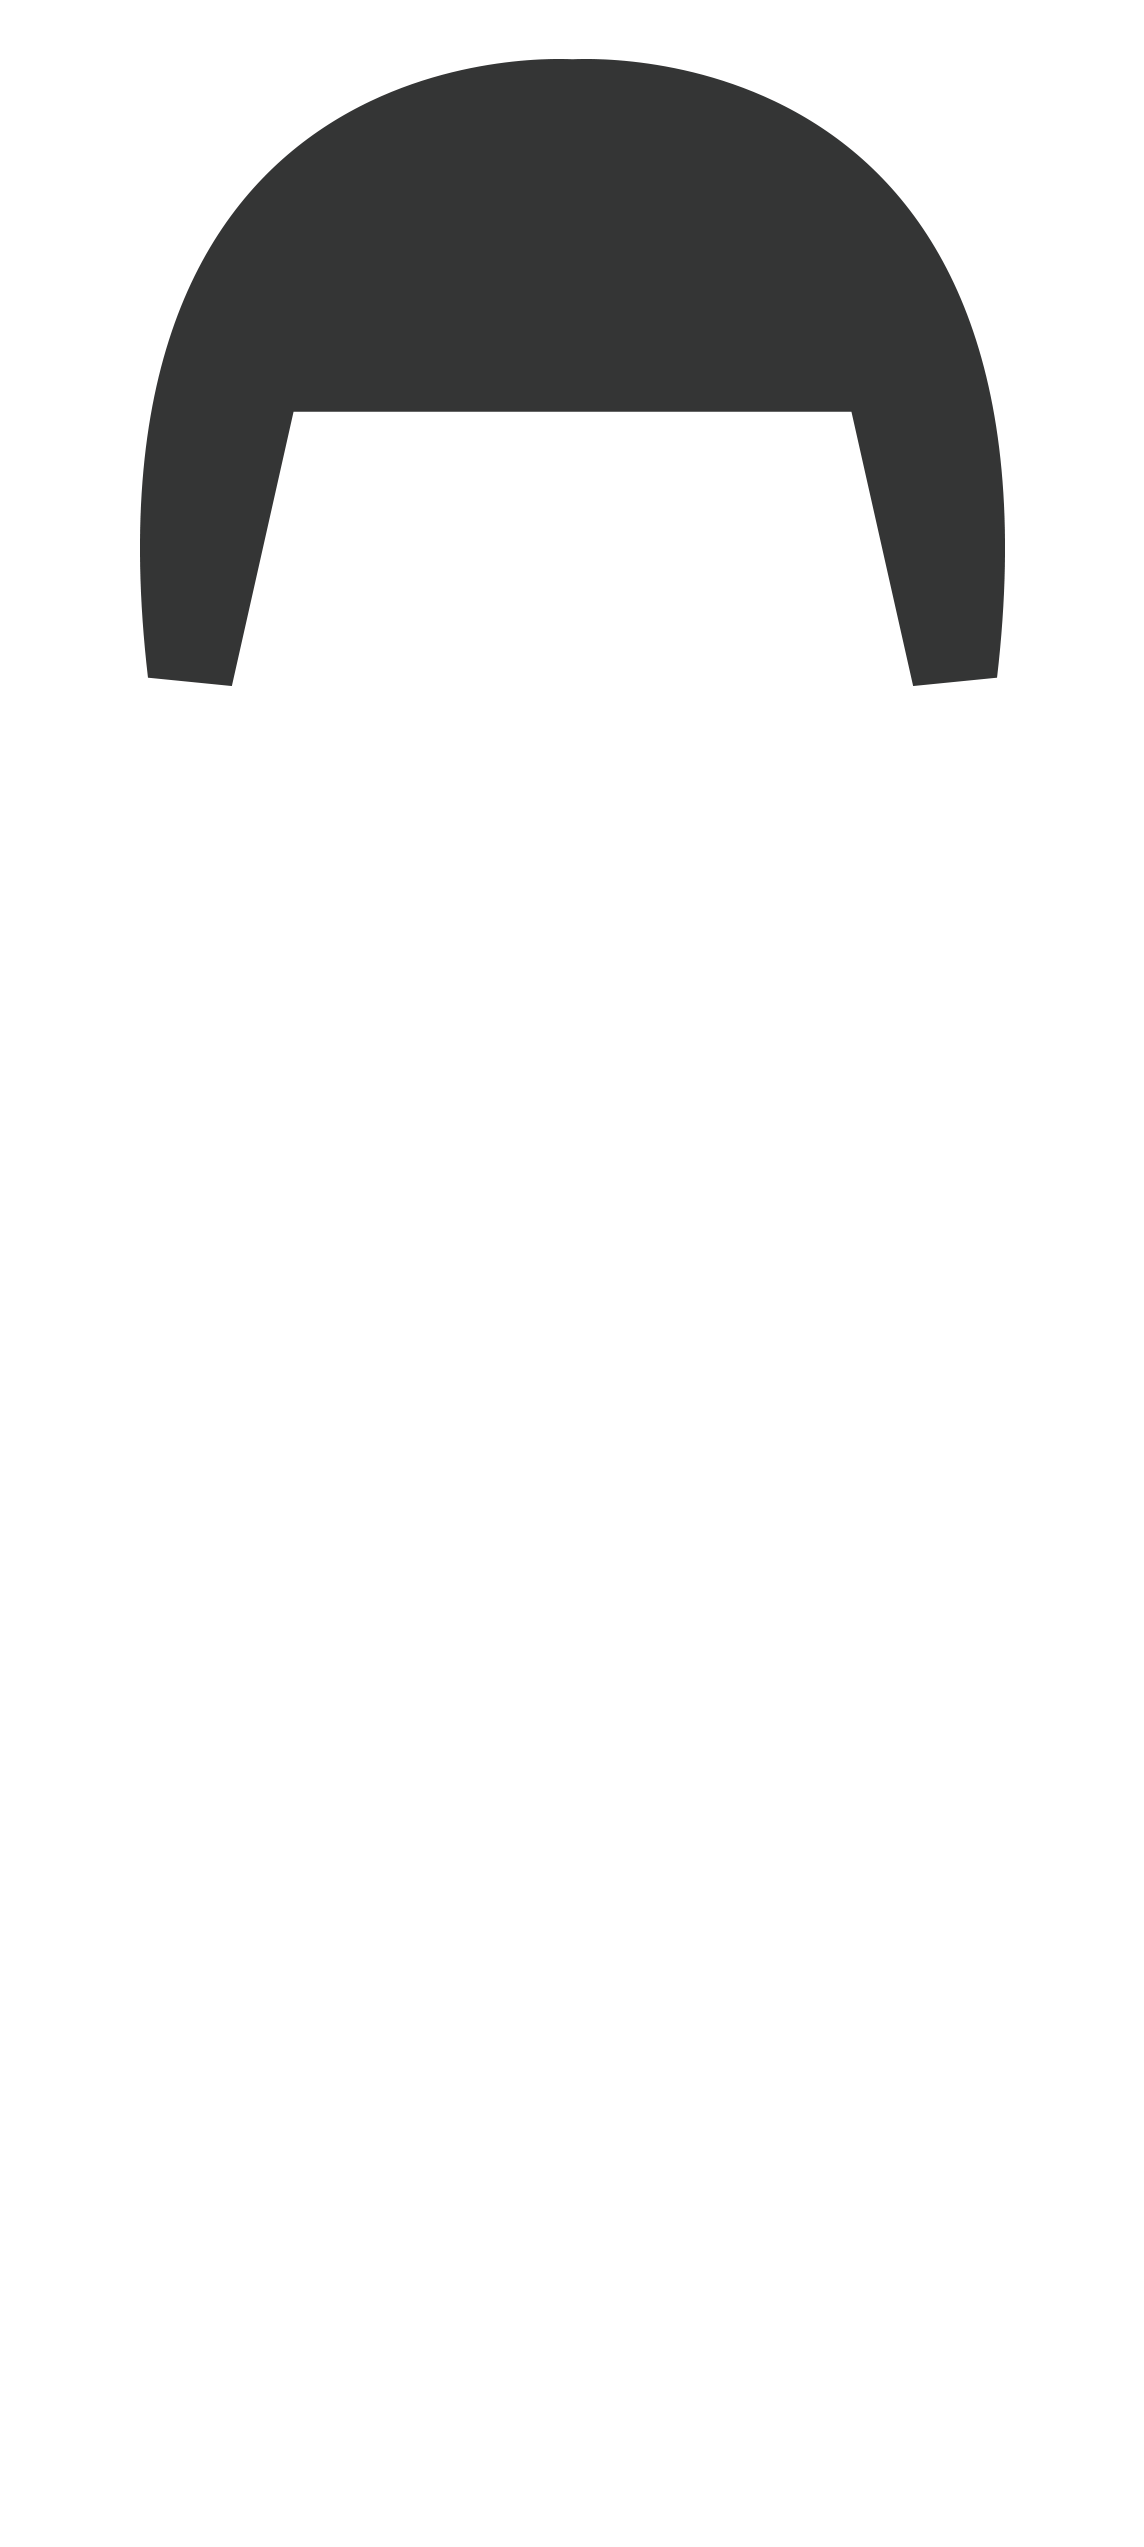
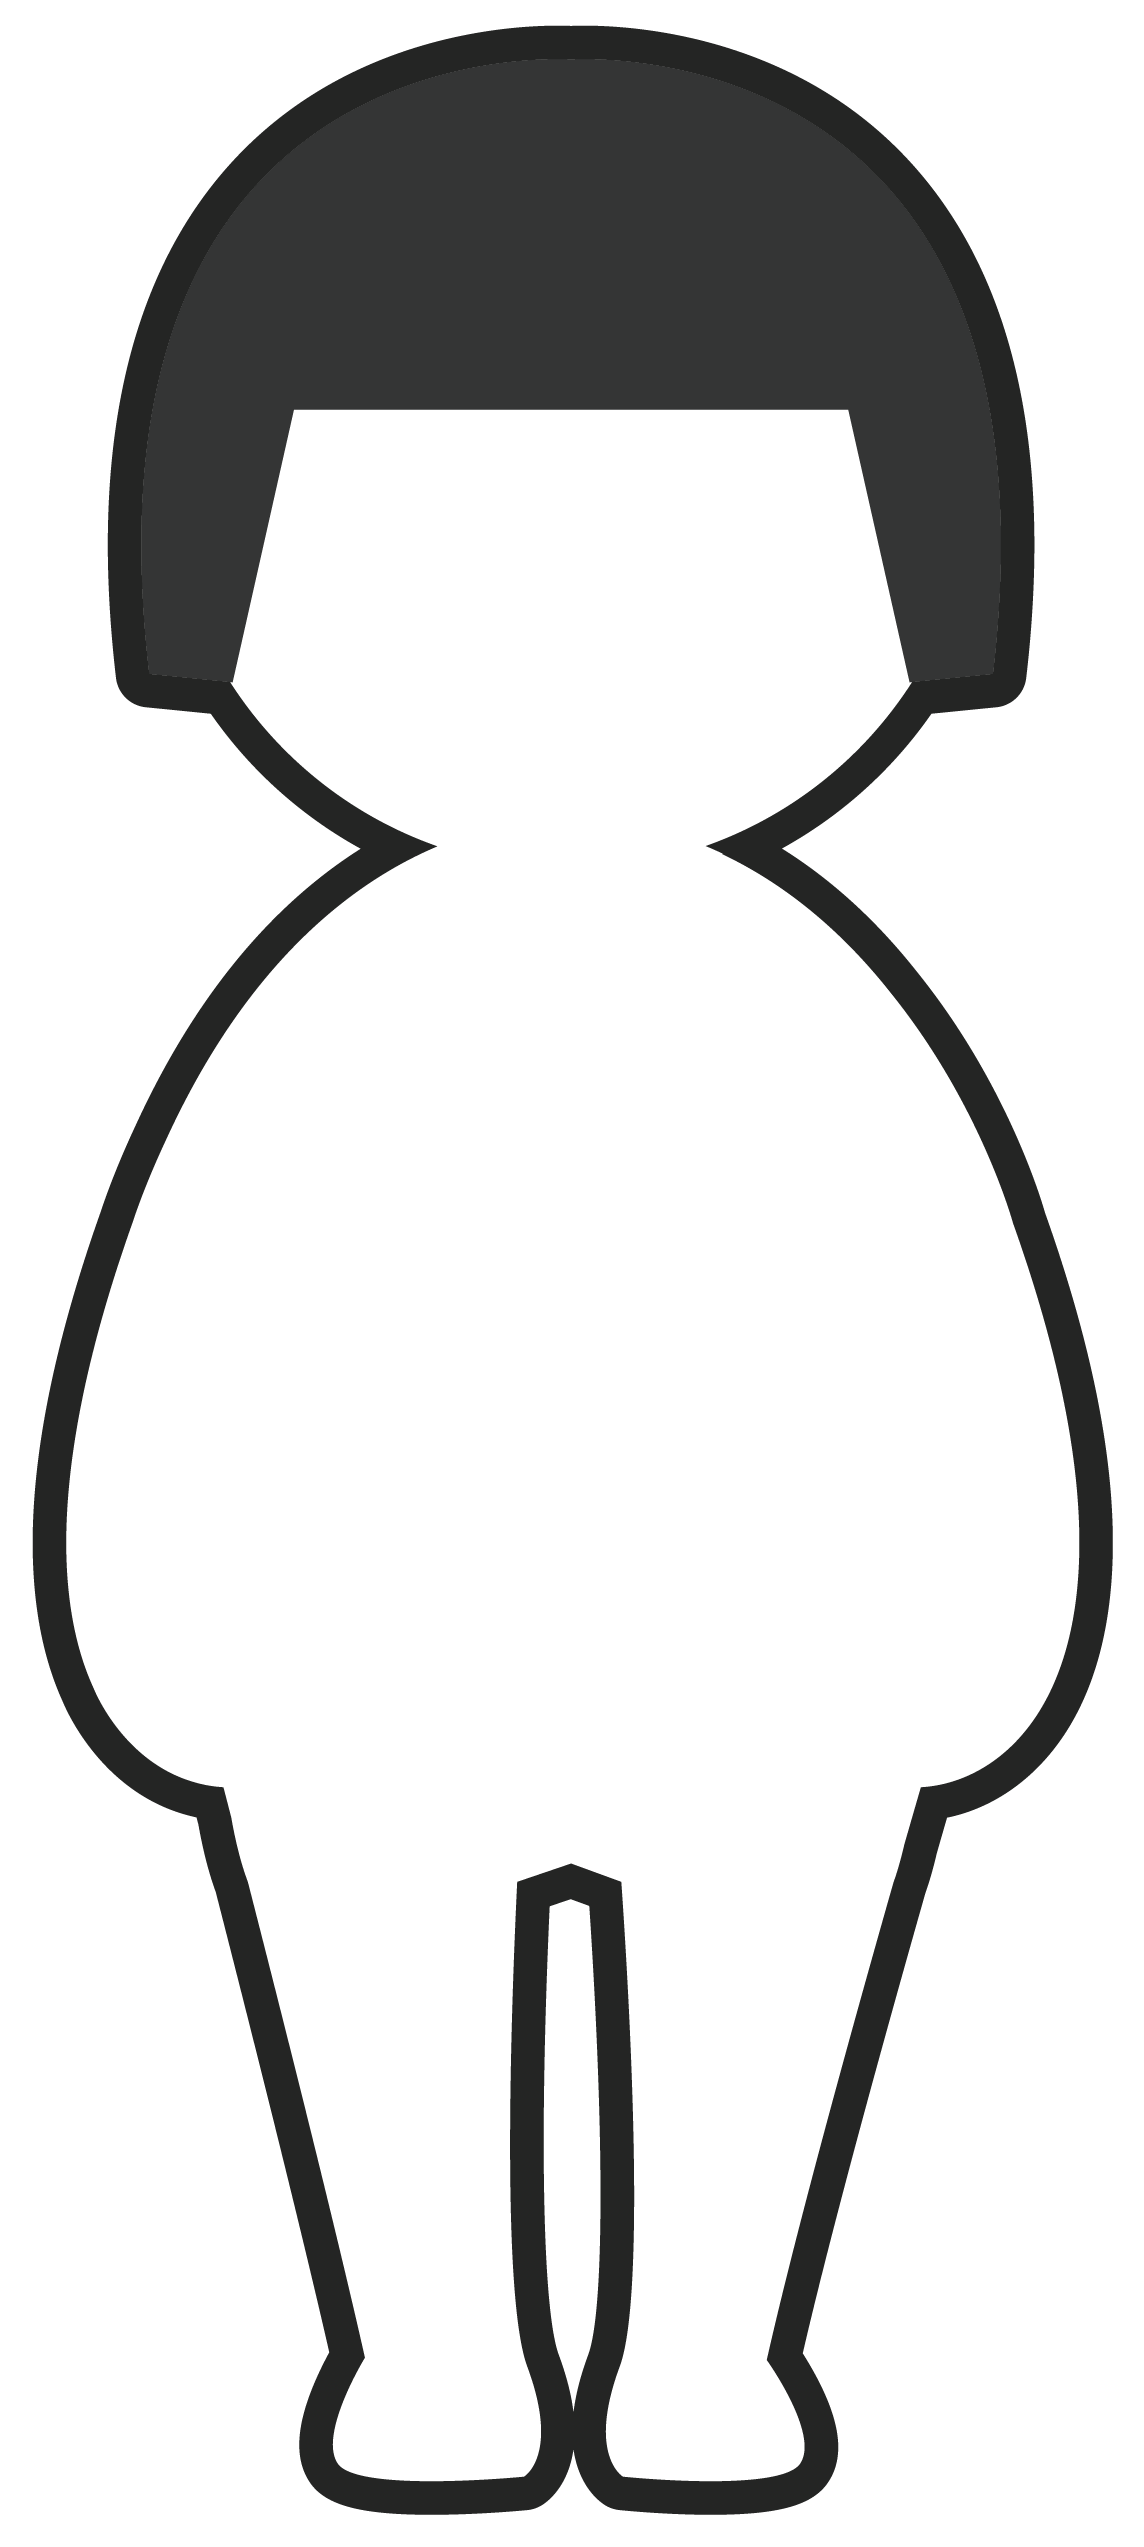
女生微调

Changed region(s): [[0.0306, 0.0, 0.979, 0.9925]]

diff --git a/src/app/select-input/select-input.component.ts b/src/app/select-input/select-input.component.ts
@@ -59,16 +59,16 @@ export class SelectInputComponent implements OnInit {
       jewArr:[
         {src:'../../assets/jew/jew (1).png',id:'1'},
         {src:'../../assets/jew/jew (2).png',id:'2'},
-        {src:'../../assets/jew/jew (3).png',id:'3'},
-        {src:'../../assets/jew/jew (4).png',id:'4'},
+        // {src:'../../assets/jew/jew (3).png',id:'3'},
+        // {src:'../../assets/jew/jew (4).png',id:'4'},
         {src:'../../assets/jew/jew (5).png',id:'5'},
         {src:'../../assets/jew/jew (6).png',id:'6'},
         {src:'../../assets/jew/jew (7).png',id:'7'},
         {src:'../../assets/jew/jew (8).png',id:'8'},
         {src:'../../assets/jew/jew (9).png',id:'9'},
-        {src:'../../assets/jew/jew (10).png',id:'11'},
-        {src:'../../assets/jew/jew (11).png',id:'12'},
-        {src:'../../assets/jew/jew (12).png',id:'10'},
+        {src:'../../assets/jew/jew (10).png',id:'10'},
+        {src:'../../assets/jew/jew (11).png',id:'11'},
+        {src:'../../assets/jew/jew (12).png',id:'12'},
       ],
       coatArr:[
         {src:'../../assets/coat/coat (1).png',id:'1'},
@@ -164,16 +164,16 @@ export class SelectInputComponent implements OnInit {
       jewArr:[
         {src:'../../assets/jew/jew (1).png',id:'1'},
         {src:'../../assets/jew/jew (2).png',id:'2'},
-        {src:'../../assets/jew/jew (3).png',id:'3'},
-        {src:'../../assets/jew/jew (4).png',id:'4'},
+        // {src:'../../assets/jew/jew (3).png',id:'3'},
+        // {src:'../../assets/jew/jew (4).png',id:'4'},
         {src:'../../assets/jew/jew (5).png',id:'5'},
         {src:'../../assets/jew/jew (6).png',id:'6'},
         {src:'../../assets/jew/jew (7).png',id:'7'},
         {src:'../../assets/jew/jew (8).png',id:'8'},
         {src:'../../assets/jew/jew (9).png',id:'9'},
-        {src:'../../assets/jew/jew (10).png',id:'11'},
-        {src:'../../assets/jew/jew (11).png',id:'12'},
-        {src:'../../assets/jew/jew (12).png',id:'10'},
+        {src:'../../assets/jew/jew (10).png',id:'10'},
+        {src:'../../assets/jew/jew (11).png',id:'11'},
+        {src:'../../assets/jew/jew (12).png',id:'12'},
       ],
       coatArr:[
         {src:'../../assets/coat/mcoat (1).png',id:'1'},
@@ -249,20 +249,20 @@ export class SelectInputComponent implements OnInit {
     if(src.includes('hair')){
       this.obj.click = 'hair';
       this.obj.hair.has = true;//obj的第一位是种类的意思
-      this.obj.hair.index = i+1; //obj第二位是第几件衣服的意思
+      this.obj.hair.index = i; //obj第二位是第几件衣服的意思
       this.eventChild1.emit(this.obj);
     }
      if(src.includes('coat')){
       this.obj.click = 'coat';
       this.obj.coat.has = true;
-      this.obj.coat.index = i+1;
+      this.obj.coat.index = i;
       this.eventChild1.emit(this.obj);
     }
      if(src.includes('suits')){
 
       this.obj.click = 'suits';
       this.obj.suits.has = true;
-      this.obj.suits.index = i+1;
+      this.obj.suits.index = i;
       if(src.includes('4')){
         this.obj.suits.hasShoes = true;
         this.obj.suits.hasJew = true;
@@ -280,19 +280,19 @@ export class SelectInputComponent implements OnInit {
      if(src.includes('pants')){
       this.obj.click = 'pants';
       this.obj.pants.has = true;
-      this.obj.pants.index = i+1;
+      this.obj.pants.index = i;
       this.eventChild1.emit(this.obj);
     }
      if(src.includes('shoes')){
       this.obj.click = 'shoes';
       this.obj.shoes.has = true;
-      this.obj.shoes.index = i+1;
+      this.obj.shoes.index = i;
       this.eventChild1.emit(this.obj);
     }
     if(src.includes('jew')){
       this.obj.click = 'jew';
       this.obj.jew.has = true;
-      this.obj.jew.index = i+1;
+      this.obj.jew.index = i;
       this.eventChild1.emit(this.obj);
     }
     

diff --git a/src/app/person/person.component.less b/src/app/person/person.component.less
@@ -10,7 +10,7 @@
         background-repeat: no-repeat;
         .hair{
             position: absolute;
-            width: 100%;
+            width: 105%;
             height: 100%;
             background-color: transparent;
             // background-image: url(../../assets/hair/fhair0.png);
@@ -18,6 +18,7 @@
             background-repeat: no-repeat;
             z-index: 11;
             top:-0.5%;
+            left: -3%;
         }
         
         .pants{
@@ -33,21 +34,22 @@
         }
         .coats{
             position: absolute;
-            width: 100%;
+            width: 105%;
             height: 100%;
             background-color: transparent;
             // background-image: url(../../assets/coat/mcoats01.png);
             background-size: 100%;
             background-repeat: no-repeat;
             z-index: 15;
-            top: 0;
+            top: -1.2%;
+            left: -2.9%;
         }
         .jew{
             position: absolute;
-            width: 100%;
+            width: 120%;
             height: 100%;
-            top: -4.8%;
-            left: 0%;
+            top: -10%;
+            left: -10%;
             background-color: transparent;
             // background-image: url(../../assets/jew/mjew1.png);
             background-size: 100%;
@@ -56,10 +58,10 @@
         }
         .shoes{
             position: absolute;
-            width: 100%;
+            width: 105%;
             height: 100%;
-            top: 4%;
-            left: -1%;
+            top: 2%;
+            left: -2.8%;
             background-color: transparent;
             background-size: 100%;
             background-repeat: no-repeat;
@@ -67,9 +69,10 @@
         }
         .suits{
             position: absolute;
-            width: 100%;
+            width: 105%;
             height: 100%;
-            top: 0;
+            top: -0.9%;
+            left: -1.9%;
             background-color: transparent;
             // background-image: url(../../assets/coat/mcoats01.png);
             background-size: 100%;

diff --git a/src/app/background-select/background-select.component.less b/src/app/background-select/background-select.component.less
@@ -18,6 +18,7 @@
         text-align: center;
         padding-top: 0.3rem;
         .white{
+            
             input{
                 margin: 0.5rem auto auto 1.0rem;
                 height: 0.65rem;
@@ -40,6 +41,15 @@
                 background-color: transparent;
                 color: #333;
             }
+            .nameshow{
+                margin: 0.5rem auto auto 1.0rem;
+                height: 0.65rem;
+                width: 2rem;
+                font-size: 0.45rem;
+                font-weight: bold;
+                border: none;
+                outline:none
+            }
             width: 4.5rem;
             height: 7.2rem;
             background-color: #fff;
@@ -51,6 +61,7 @@
             background-repeat: no-repeat;
             background-position: 10% 10%;
             z-index: 5;
+            
             .person{
                 padding-top: 0.4rem;
                 width:1.8rem;

diff --git a/src/app/background-select/background-select.component.html b/src/app/background-select/background-select.component.html
@@ -5,11 +5,13 @@
   <div class="middle"   id="mainTable">
     <div class="white" [style.background-image]="'url(' + '../../assets/background/bg'+ bgImgNumber + '.jpg'+ ')'">
       <!-- <input type="text"  #box (keyup)="onKey(box.value)"> -->
-      <div *ngIf="!getPost">
+      <div *ngIf="!getPost" >
           <input type="text"  #box (keyup)="onKey(box.value)">
       </div>
-      <div *ngIf="getPost">
-          <input type="text"  [value]="name" disabled>
+      <div *ngIf="getPost" >
+          <!-- <input type="text"  [value]="name" disabled> -->
+         <div class="nameshow"> {{name}}</div>
+          <!-- <input type="text"  [value]="name" #box (keyup)="onKey(box.value) " disabled> -->
       </div>
       <div class="erwei" *ngIf="getPost"></div>
       <div class="person">

diff --git a/src/app/select-input/select-input.component.html b/src/app/select-input/select-input.component.html
@@ -52,10 +52,10 @@
               <img src="../../assets/btn/m-back.png" alt="">
             </div>
         </div>
-      <div class="img-name" *ngFor="let index of showArr;let i=index" (click)="change(index.src,i)">
+      <div class="img-name" *ngFor="let index of showArr;let i=index">
           <!-- <div class="img-name" *ngFor="let index of showArr;let i=index" (click)="change()"> -->
           <!-- <img src="../../assets/jew/jew (1).png" alt=""> -->
-          <img [src]="index.src" alt="">
+          <img  (click)="change(index.src,index.id)" [src]="index.src" alt="">
         </div>
         <div class="img-name" (click)=" id = 'top1'">
           <div *ngIf="obj.gender == 1">

diff --git a/src/app/gender-select/gender-select.component.html b/src/app/gender-select/gender-select.component.html
@@ -2,10 +2,10 @@
 <div class="main">
   <div class="top"></div>
   <div class="person">
-    <div class="left-person">
+    <div class="left-person"  (click)="toggleImage(2)">
       <img src="../../assets/background/man-1.png" alt="">
     </div>
-    <div class="right-person">
+    <div class="right-person" (click)="toggleImage(1)">
       <img src="../../assets/background/women-1.png" alt="">
     </div>
   </div>
